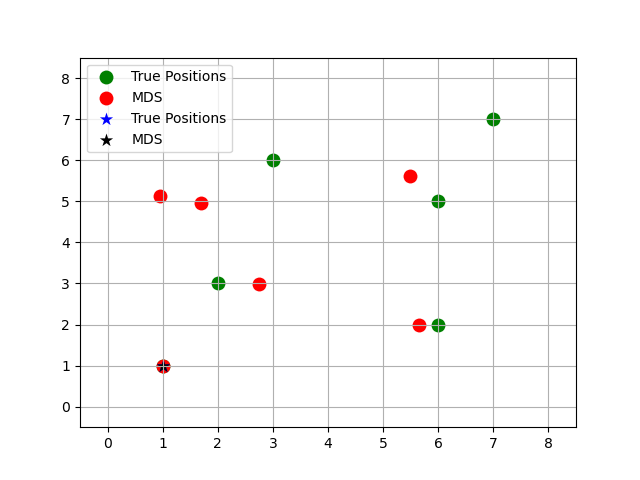
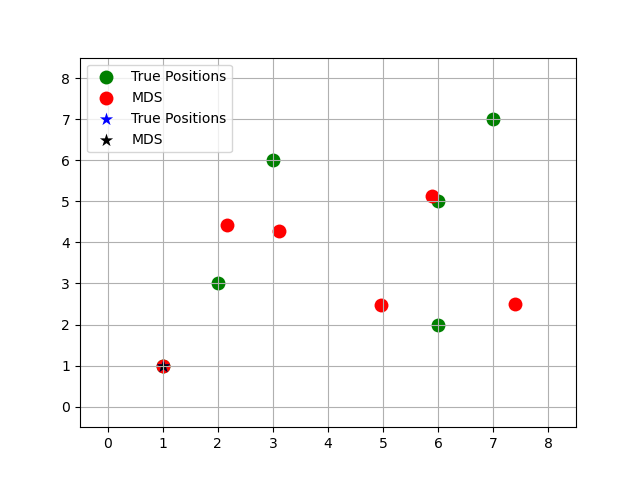
cognitive mapping evaluation pipeline fully running with wandb saving results.

diff --git a/evals.py b/evals.py
@@ -49,9 +49,9 @@ class HiddenLayerExtractor(nn.Module):
 
         # register a hook to get the hidden layer
         for name, module in self.policy.policy.named_modules():
-            print(f"Module name: {name}")
+            # print(f"Module name: {name}")
             if name == hidden_layer_name:
-                print(f"HiddenLayerExtractor registering output of module {name}")
+                # print(f"HiddenLayerExtractor registering output of module {name}")
                 module.register_forward_hook(self._hidden_layer_hook)
                 break
         
@@ -68,10 +68,10 @@ class HiddenLayerExtractor(nn.Module):
         """
         Forward pass
         """
-        # with torch.no_grad():
-        episode_starts = torch.tensor(np.ones((1,), dtype=bool))
-        obs = torch.tensor(obs)
-        action, lstm_states = self.policy.predict(obs, state, episode_starts)
+        with torch.no_grad():
+            episode_starts = torch.tensor(np.ones((1,), dtype=bool))
+            obs = torch.tensor(obs)
+            action, lstm_states = self.policy.predict(obs, state, episode_starts, deterministic=deterministic)
         return action, self.hidden_layer_output, lstm_states
     
 
@@ -90,7 +90,7 @@ class CognitiveMapEvaluation(nn.Module):
         self._A = A # adjacency matrix
 
         # wrap the policy in a module to extract a hidden layer from the policy
-        self.policy = HiddenLayerExtractor(policy, 'mlp_extractor.policy_net')
+        self._policy = HiddenLayerExtractor(policy, cfg.eval.hidden_layer_activation)
         self._dist_func = dist_func
         self.hidden_layer_activations = {}
         self._seed = seed
@@ -118,7 +118,7 @@ class CognitiveMapEvaluation(nn.Module):
             lstm_states = None
 
             # take an action and get the requested hidden layer of that activation
-            action, hidden_layer_activation, lstm_states = self.policy(obs_at_landmark, lstm_states)
+            action, hidden_layer_activation, lstm_states = self._policy(obs_at_landmark, lstm_states)
             # print(f"Hidden Layer activation: {hidden_layer_activation}")
             # save the hidden_layer_activation
             # self.hidden_layer_activations.append(hidden_layer_activation)
@@ -132,7 +132,7 @@ class CognitiveMapEvaluation(nn.Module):
         cog_map, disparity = mds_cognitive_mapping(dist_matrix, self._landmarks, self._seed)
 
         # Save the cognitive map to wandb or something else.
-        return cog_map,
+        return cog_map, disparity
     
     @property
     def landmarks(self):
@@ -141,6 +141,15 @@ class CognitiveMapEvaluation(nn.Module):
     @landmarks.setter
     def landmarks(self, value: List[Dict[str, Tuple]]):
         self._landmarks = value
+
+    @property
+    def policy(self):
+        return self._policy
+    
+    @policy.setter
+    def policy(self, policy):
+        print("Resetting policy")
+        self._policy = HiddenLayerExtractor(policy, self._cfg.eval.hidden_layer_activation)
 
             
     def hidden_layers_to_distance_matrix(self, hidden_layer_activations_struct: List[torch.tensor], dist_func: Callable=cosine_distances):
@@ -171,10 +180,6 @@ class CognitiveMapEvaluation(nn.Module):
                 dist_matrix_goal_conditioned[a,b,c,d] = dist_func(hidden_layer_activation_i, hidden_layer_activation_j)
         # average over all the goal conditions
         dist_matrix = np.mean(dist_matrix_goal_conditioned, axis=(0,1))
-
-        # for i, hidden_layer_activation_i in enumerate(hidden_layer_activations_struct):
-        #     for j, hidden_layer_activation_j in enumerate(hidden_layer_activations_struct):
-        #         dist_matrix[i, j] = dist_func(hidden_layer_activation_i, hidden_layer_activation_j)
         return dist_matrix
 
 

diff --git a/run.py b/run.py
@@ -24,6 +24,7 @@ import hydra
 from omegaconf import DictConfig, OmegaConf
 import os
 from evals import CognitiveMapEvaluation
+from copy import deepcopy
 
 
 # directory of run.py
@@ -85,31 +86,40 @@ def evaluate_model(env, cfg):
     """
     Evaluates the desired model
     """
-
-    # TODO: Get the landmarks and goal landmark from a specific configuration.
-    # landmarks = {'A':(1,1), 'B':(2,3), 'C':(3,6), 'D':(6,2),'E':(6,5),'F':(7,7)}
-    # goal_landmark = {'C':(3,6)}
-
     landmarks, A = load_landmark_specs(cfg)
 
     # Load up the saved models to evaluate on.
     # TODO: Organize the saved modes in ascending order by step count
     # and iterate the evaluation for each model.
-    base_dir = os.path.join(script_path, 'evaluation_models', 'recurrent_ppo_test')
-    evaluation_models_dir = base_dir
+    evaluation_models_dir = os.path.join(script_path, 'evaluation_models', cfg.eval.evaluation_model)
     file_names = os.listdir(evaluation_models_dir)
-    file_names = [name.rstrip('.zip') for name in file_names] # remove the .zip extension (stable baselines doesn't expect it)
-
+    model_checkpoints = [name.rstrip('.zip') for name in file_names] # remove the .zip extension (stable baselines doesn't expect it)
+    get_step = lambda x: int(x.split('_')[-2])
+    model_checkpoints.sort(key=get_step)
+    
     # initialize the policy
-    policy = load_policy(env, cfg)
-    policy.load(os.path.join(base_dir, 'ppo_model_9x9_2040_steps')) # TODO: This is just for testing, we will actually iterate throught file names later
-
-    # TODO: Specify the hidden layers in the configuration file
-    print(policy.policy)
+    
+    
 
     if(cfg.eval.name == "CognitiveMapEvaluation"):
-        eval_module = CognitiveMapEvaluation(cfg, env, landmarks, A, policy)
-        eval_module()
+
+        # iterate through each of the trained models and run the evaluation to get the cognitive map 
+        # eval_module = CognitiveMapEvaluation(cfg, env, landmarks, A, policy)
+        # model_checkpoints = ['ppo_model_9x9_40_steps']
+        for model_checkpoint in model_checkpoints:
+            print(f"Running Cognitive Map evaluation for model checkpoint: {model_checkpoint}")
+            policy = load_policy(env, cfg)
+            policy.load(os.path.join(evaluation_models_dir, model_checkpoint))
+            # print(policy.policy)
+            # eval_module.policy = policy
+            eval_module = CognitiveMapEvaluation(cfg, env, landmarks, A, policy)
+            cog_map_fig, disparity = eval_module()
+            
+            step = get_step(model_checkpoint)
+            print(f'step: {step}')
+            wandb.log({'eval/cog_map':cog_map_fig,
+                       'eval/disparity':disparity}, step=step)
+            # wandb.log({'eval/disparity':disparity}, step=step)
 
 def train_model(env, cfg):
 
